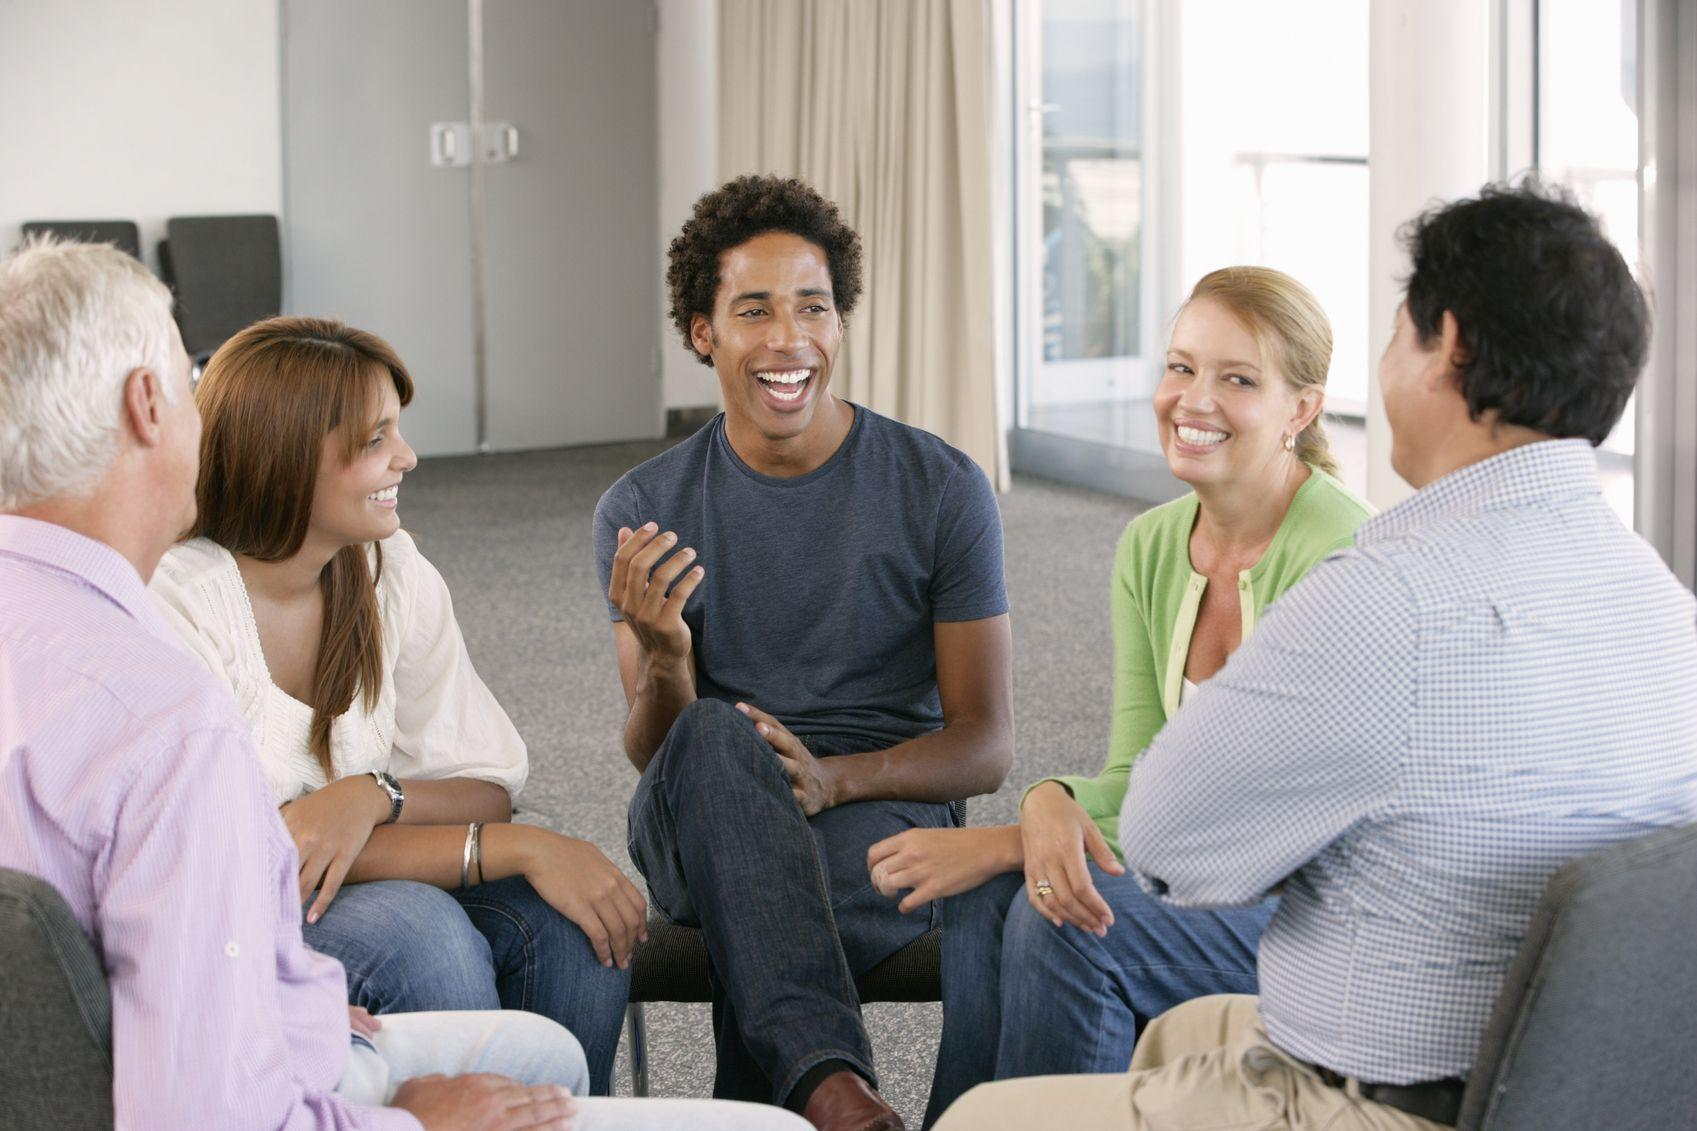
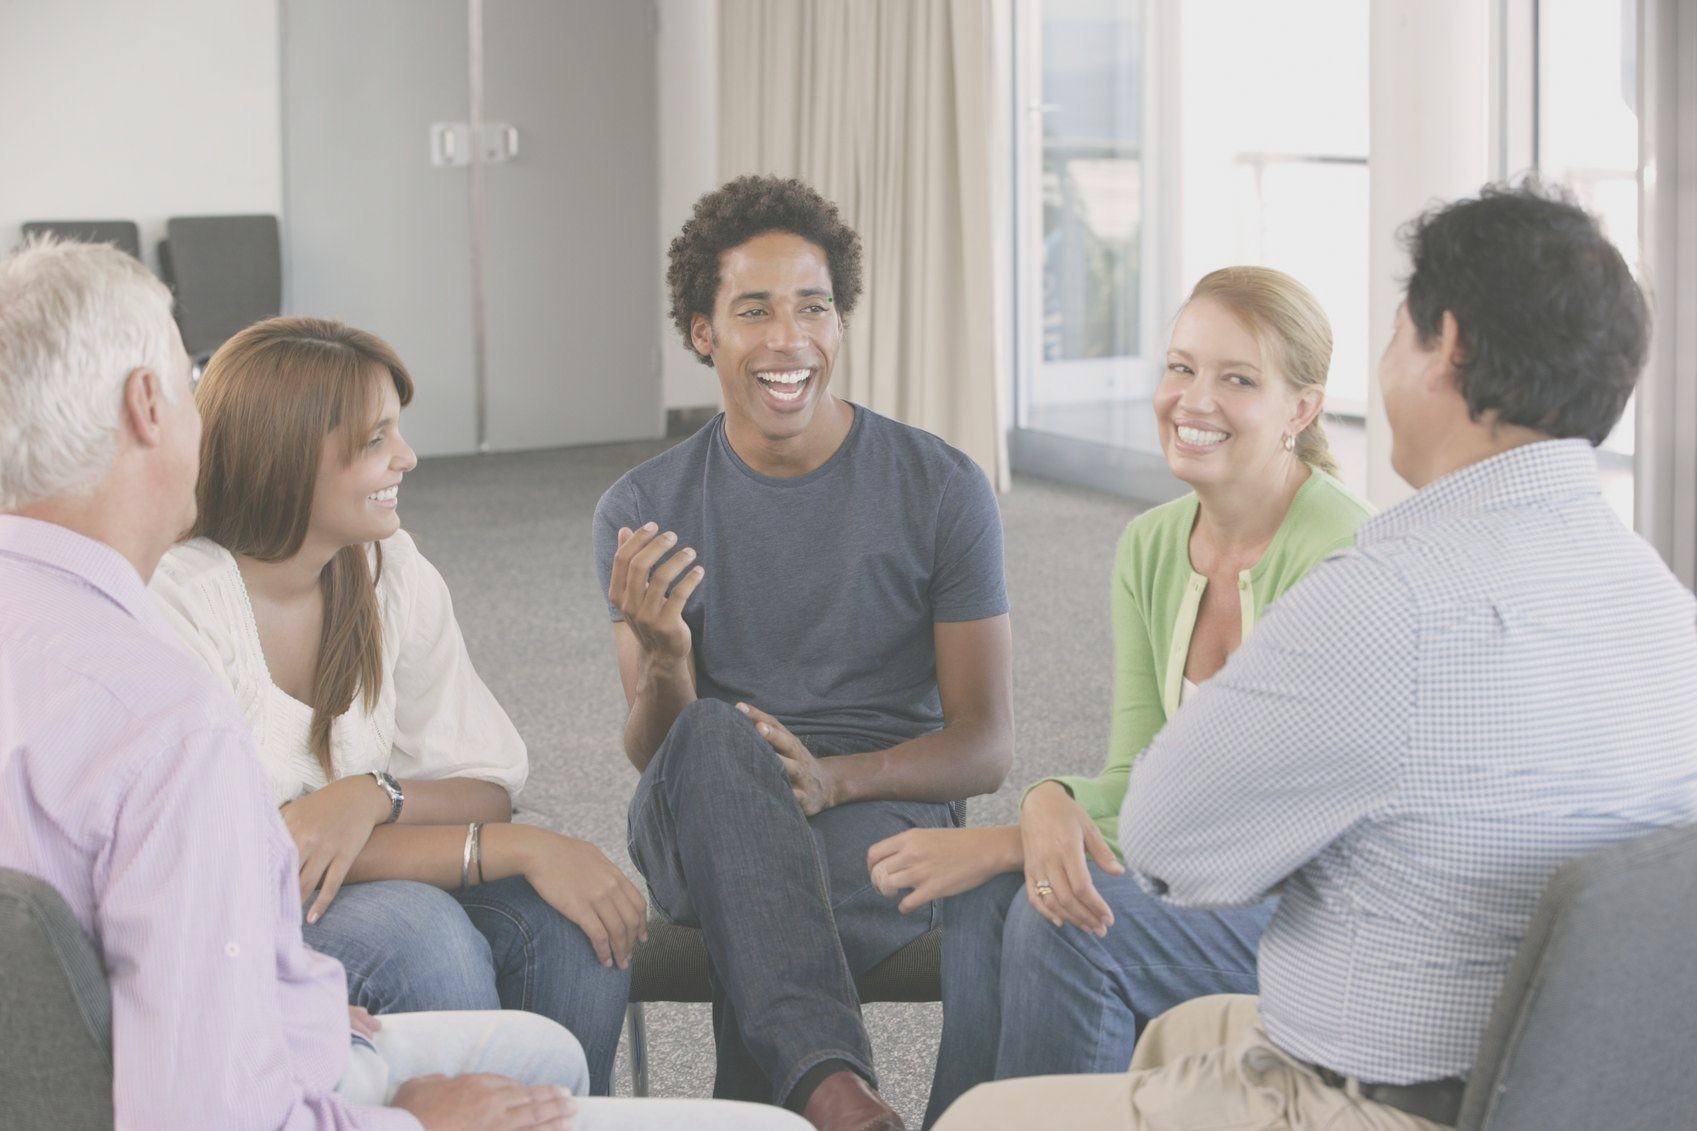
new commit

diff --git a/style.css b/style.css
@@ -3,10 +3,6 @@
 	background : url('./images/background.jpg');
     background-size: 100%, 100%;
 	color: orange;
-	filter:brightness(0.2);
-	}
-#text {
-	filter:brightness(100);
 }
 /*navbar starts */
 body{
